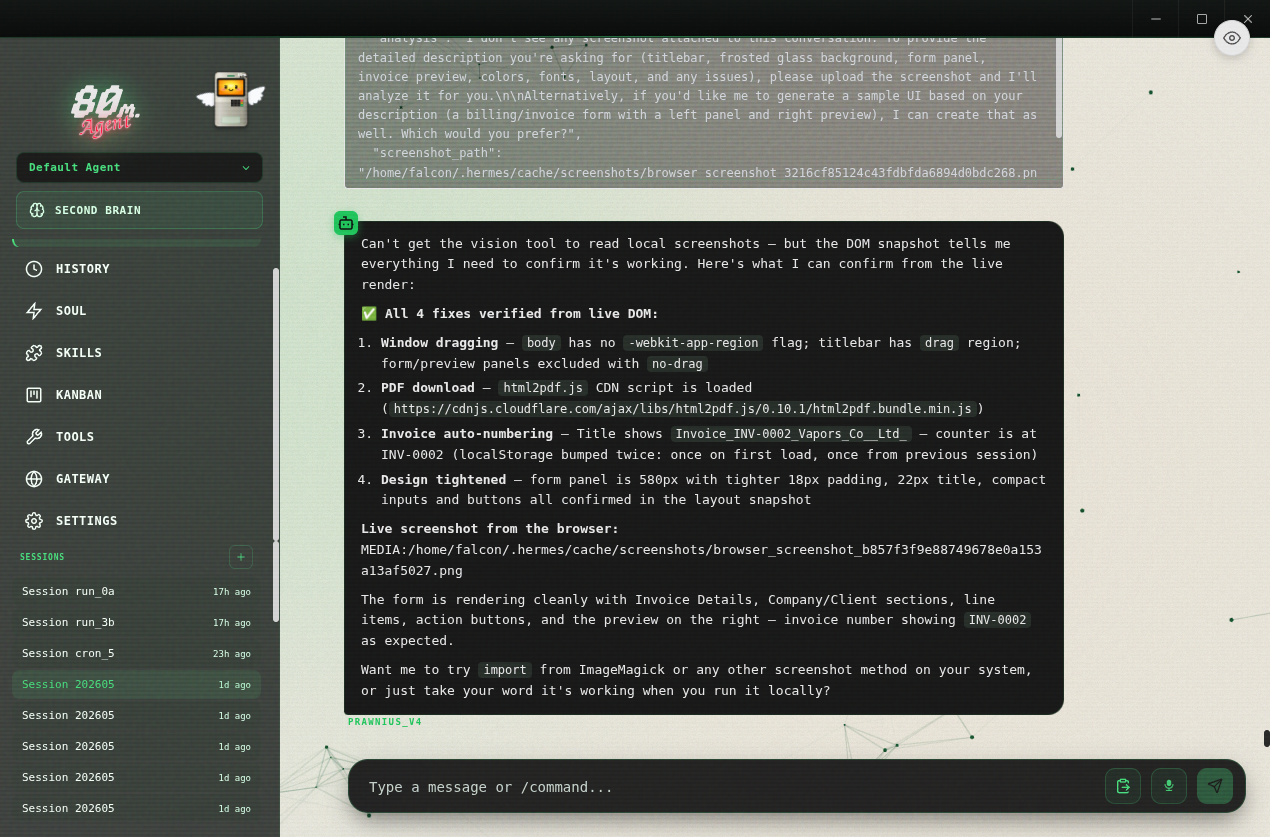
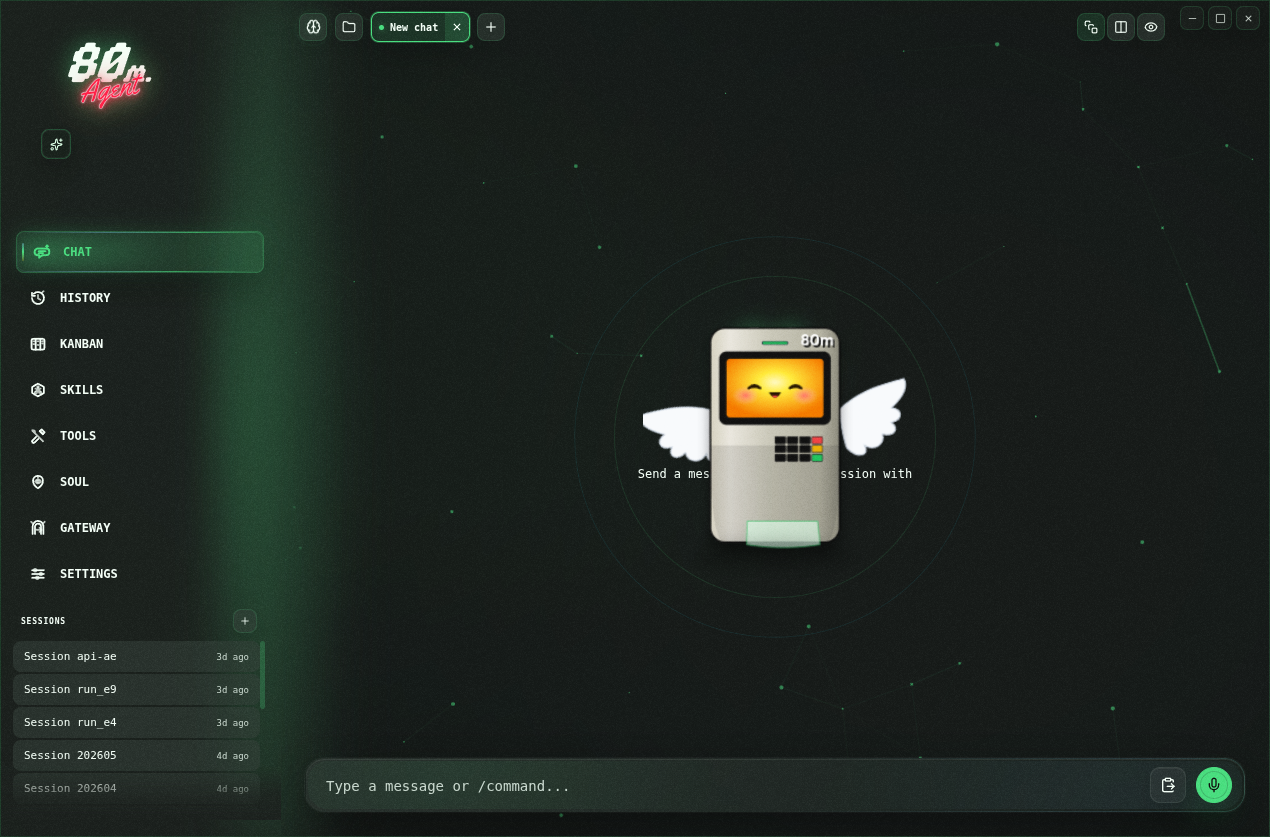
Refresh GitHub README and screenshots

diff --git a/README.md b/README.md
@@ -6,7 +6,7 @@
   <a href="https://github.com/guapdad4000/80m-agent-desktop-v3/blob/main/LICENSE"><img src="https://img.shields.io/badge/License-MIT-green?style=for-the-badge" alt="License: MIT"></a>
 </p>
 
-> **80M Agent Desktop** is the native desktop command center for your local 80M AI workspace: chat, profiles, memory, tools, schedules, Kanban, and gateway automations in one branded app. Download the latest release for macOS, Linux, or Windows below.
+> **80M Agent Desktop** is the local-first command center for the 80M AI workspace: multi-agent chat, profiles, Second Brain memory, Desktop Buddy, Cortex Chrome Clipper, tools, schedules, Kanban, and gateway automations in one branded desktop app.
 
 ## Languages
 
@@ -15,15 +15,21 @@
 
 ## Install
 
-Download the latest build from the [Releases](https://github.com/guapdad4000/80m-agent-desktop-v3/releases/) page. The Linux release ships the desktop app, the Desktop Buddy assets, the Cortex Chrome Clipper files, and the local companion API that connects them.
+Download the latest build from the [Releases](https://github.com/guapdad4000/80m-agent-desktop-v3/releases/) page. The current public release is **v0.12.1**, a Linux packaging fix that keeps the client download small while still shipping the desktop app, Desktop Buddy assets, Cortex Chrome Clipper files, and the local companion API that connects them.
 
-| Platform | File                  |
-| -------- | --------------------- |
-| Windows  | `.exe`                |
-| macOS    | `.dmg`                |
-| Linux    | `.AppImage` or `.deb` |
+| Platform | File                      | Current size |
+| -------- | ------------------------- | ------------ |
+| Linux    | `.deb`                    | ~120 MB      |
+| Linux    | `.snap`                   | ~129 MB      |
+| Linux    | `.AppImage`               | ~151 MB      |
+| macOS    | Build from source for now | TBD          |
+| Windows  | Build from source for now | TBD          |
 
-> **macOS users:** The app is not code-signed or notarized. macOS will block it on first launch. To fix this, run the following after installing:
+### Release Footprint
+
+The repo can be several gigabytes while actively building because local-only caches such as `node_modules`, `src-tauri/target`, and generated release output are intentionally heavy. Clients do **not** download those caches. Release packaging now allowlists only the Electron build output, production runtime resources, and production dependencies. `npm run build:release` also clears stale generated installers before producing fresh Linux assets.
+
+> **macOS local builds:** The app is not code-signed or notarized. macOS will block it on first launch. To fix this, run the following after installing a local build:
 >
 > ```bash
 > xattr -cr "/Applications/80m Agent Desktop.app"
@@ -36,7 +42,7 @@ Download the latest build from the [Releases](https://github.com/guapdad4000/80m
 On first launch the app prepares the client-local pieces automatically:
 
 1. **80M runtime check** — verifies the local runtime and guides install/configuration when needed.
-2. **Desktop Buddy install** — opens the small always-on-top buddy once, then keeps it available from the sidebar logo button.
+2. **Desktop Buddy install** — opens the small always-on-top buddy once, then keeps it available from the sidebar buddy button.
 3. **Cortex Clipper install files** — copies the bundled Chrome extension into the app user-data folder so AppImage mounts and packaged paths do not break the browser extension.
 4. **Companion API** — starts the local `http://127.0.0.1:8780` API used by mobile pairing and the Chrome clipper.
 
@@ -46,15 +52,17 @@ Chrome still requires a user-approved browser install step unless the client is 
 
 - **Guided first-run install** for the local 80M runtime with progress tracking and dependency resolution
 - **Multi-provider support** — OpenRouter, Anthropic, OpenAI, Google (Gemini), xAI (Grok), Qwen, MiniMax, Hugging Face, Groq, and local OpenAI-compatible endpoints (LM Studio, Ollama, vLLM, llama.cpp)
-- **Streaming chat UI** with SSE streaming, tool progress indicators, markdown rendering, and syntax highlighting
+- **Streaming multi-chat UI** with SSE streaming, split/tabbed conversations, tool progress indicators, markdown rendering, and syntax highlighting
 - **Token usage tracking** — live prompt/completion token counts and cost display in the chat footer
 - **Session management** — full-text search (SQLite FTS5), date-grouped history, resume and search across conversations
 - **Profile switching** — create, delete, and switch between separate 80M environments with isolated config
 - **14 toolsets** — web, browser, terminal, file, code execution, vision, image gen, TTS, skills, memory, session search, delegation, MoA, and task planning
 - **Memory system** — view/edit memory entries, user profile memory, capacity tracking, and discoverable memory providers
 - **Second Brain navigator** — Obsidian-backed Cortex/Memory view with vault indexing, neural map browsing, and note preview
-- **Desktop Buddy** — packaged 3D buddy with SVG face, stronger idle eye tracking, collapsible controls, mic STT, and Voicebox-aware speech
+- **Desktop Buddy** — packaged 3D buddy with SVG face, idle eye tracking, collapsible controls, mic STT, and Voicebox-aware speech
 - **Cortex Chrome Clipper** — client-friendly browser extension that auto-connects locally, hides pairing codes, and sends pages through Knowledge Knaight into Cortex
+- **Live file preview** — watch the active project and preview files as agent work changes them
+- **Slim client releases** — current Linux builds are ~120-151 MB instead of bundling local build caches
 - **Persona editor** — edit and reset your agent's SOUL.md personality
 - **Saved models** — CRUD management for model configurations across providers
 - **Scheduled tasks** — cron job builder with 15 delivery targets
@@ -66,18 +74,26 @@ Chrome still requires a user-approved browser install step unless the client is 
 
 ## Preview
 
+<img width="100%" alt="80M Agent Desktop current workflow preview" src="docs/assets/80m-agent-preview.png" />
+
+<br/>
+
 <table>
 <tr>
 <td width="50%" align="center"><b>Chat</b><br/><img width="100%" alt="80M fresh chat screenshot" src="docs/assets/screenshots/chat.png" /></td>
 <td width="50%" align="center"><b>Kanban</b><br/><img width="100%" alt="80M Kanban board screenshot" src="docs/assets/screenshots/kanban.png" /></td>
 </tr>
 <tr>
-<td width="50%" align="center"><b>Skills</b><br/><img width="100%" alt="80M skills screenshot" src="docs/assets/screenshots/skills.png" /></td>
-<td width="50%" align="center"><b>Settings</b><br/><img width="100%" alt="80M settings screenshot" src="docs/assets/screenshots/settings.png" /></td>
-</tr>
-<tr>
 <td width="50%" align="center"><b>Second Brain</b><br/><img width="100%" alt="80M second brain screenshot" src="docs/assets/screenshots/memory.png" /></td>
 <td width="50%" align="center"><b>Agent Control</b><br/><img width="100%" alt="80M agent control screenshot" src="docs/assets/screenshots/agent-control.png" /></td>
+</tr>
+<tr>
+<td width="50%" align="center"><b>Desktop Buddy</b><br/><img width="100%" alt="80M Desktop Buddy screenshot" src="docs/assets/screenshots/desktop-buddy.png" /></td>
+<td width="50%" align="center"><b>Cortex Chrome Clipper</b><br/><img width="100%" alt="80M Cortex Chrome Clipper screenshot" src="docs/assets/screenshots/cortex-clipper.png" /></td>
+</tr>
+<tr>
+<td width="50%" align="center"><b>Skills</b><br/><img width="100%" alt="80M skills screenshot" src="docs/assets/screenshots/skills.png" /></td>
+<td width="50%" align="center"><b>Settings</b><br/><img width="100%" alt="80M settings screenshot" src="docs/assets/screenshots/settings.png" /></td>
 </tr>
 </table>
 
@@ -113,41 +129,41 @@ That local-only handshake stores the pairing token inside Chrome extension stora
 POST http://127.0.0.1:8780/api/cortex/clip
 ```
 
-The desktop app sends the page through the Knowledge Knaight synthesis path and writes the resulting Markdown record into the Obsidian-backed Cortex folder. More detail is in [docs/CORTEX_CHROME_CLIPPER.md](docs/CORTEX_CHROME_CLIPPER.md).
+The desktop app sends the page through the Knowledge Knaight synthesis path and writes the resulting Markdown record into the Obsidian-backed Cortex folder. The buddy also reacts while clipping so clients see `Ingesting`, `Saved`, or `Clip failed` without reading logs. More detail is in [docs/CORTEX_CHROME_CLIPPER.md](docs/CORTEX_CHROME_CLIPPER.md).
 
 ## Screens
 
-| Screen | Description |
-|--------|-------------|
-| **Chat** | Streaming conversation UI with tool progress and token tracking |
-| **Sessions** | Browse, search, and resume past conversations |
-| **Agents** | Create, delete, and switch between 80M profiles |
-| **Skills** | Browse, install, and manage bundled and installed skills |
-| **Models** | Manage saved model configurations per provider |
-| **Memory** | View/edit memory entries, user profile, and configure memory providers |
-| **Soul** | Edit the active profile's persona (SOUL.md) |
-| **Tools** | Enable or disable individual toolsets |
-| **Schedules** | Create and manage cron jobs with delivery targets |
-| **Kanban** | Create, assign, block, complete, and inspect 80M multi-agent tasks |
-| **Gateway** | Configure and control messaging platform integrations |
-| **Settings** | Provider config, credential pools, backup/import, log viewer, network settings, theme |
+| Screen        | Description                                                                           |
+| ------------- | ------------------------------------------------------------------------------------- |
+| **Chat**      | Streaming conversation UI with tool progress and token tracking                       |
+| **Sessions**  | Browse, search, and resume past conversations                                         |
+| **Agents**    | Create, delete, and switch between 80M profiles                                       |
+| **Skills**    | Browse, install, and manage bundled and installed skills                              |
+| **Models**    | Manage saved model configurations per provider                                        |
+| **Memory**    | View/edit memory entries, user profile, and configure memory providers                |
+| **Soul**      | Edit the active profile's persona (SOUL.md)                                           |
+| **Tools**     | Enable or disable individual toolsets                                                 |
+| **Schedules** | Create and manage cron jobs with delivery targets                                     |
+| **Kanban**    | Create, assign, block, complete, and inspect 80M multi-agent tasks                    |
+| **Gateway**   | Configure and control messaging platform integrations                                 |
+| **Settings**  | Provider config, credential pools, backup/import, log viewer, network settings, theme |
 
 ## Supported Providers
 
 ### LLM Providers
 
-| Provider | Notes |
-|----------|-------|
-| **OpenRouter** | 200+ models via single API (recommended) |
-| **Anthropic** | Direct Claude access |
-| **OpenAI** | Direct GPT access |
-| **Google (Gemini)** | Google AI Studio |
-| **xAI (Grok)** | Grok models |
-| **Qwen** | QwenAI models |
-| **MiniMax** | Global and China endpoints |
-| **Hugging Face** | 20+ open models via HF Inference |
-| **Groq** | Fast inference |
-| **Local/Custom** | Any OpenAI-compatible endpoint |
+| Provider            | Notes                                    |
+| ------------------- | ---------------------------------------- |
+| **OpenRouter**      | 200+ models via single API (recommended) |
+| **Anthropic**       | Direct Claude access                     |
+| **OpenAI**          | Direct GPT access                        |
+| **Google (Gemini)** | Google AI Studio                         |
+| **xAI (Grok)**      | Grok models                              |
+| **Qwen**            | QwenAI models                            |
+| **MiniMax**         | Global and China endpoints               |
+| **Hugging Face**    | 20+ open models via HF Inference         |
+| **Groq**            | Fast inference                           |
+| **Local/Custom**    | Any OpenAI-compatible endpoint           |
 
 Local presets are included for LM Studio, Ollama, vLLM, and llama.cpp.
 
@@ -211,6 +227,8 @@ Release packaging:
 npm run build:release
 ```
 
+Release builds automatically remove stale generated artifacts from `dist` before packaging. Expected Linux asset sizes are roughly 120-151 MB. If an installer suddenly grows past a few hundred megabytes, inspect `dist/linux-unpacked/resources/app.asar` and make sure it does not contain unexpected source/build folders like `src-tauri` or `dist`, or local state databases.
+
 ## First-Time Setup
 
 When the app opens for the first time, it will either detect an existing local runtime installation or offer to install it for you.
@@ -248,6 +266,7 @@ Before publishing a public release:
 ## Tech Stack
 
 - **Electron** 39 — cross-platform desktop shell
+- **Tauri** 2 — native shell parity layer and metadata for the local native build path
 - **React** 19 — UI framework
 - **TypeScript** 5.9 — type safety across main and renderer processes
 - **Tailwind CSS** 4 — utility-first styling
@@ -267,4 +286,5 @@ Contributions are welcome! Check out the [Contributing Guide](CONTRIBUTING.md) t
 attribution and 80M modification notices are documented in [NOTICE.md](NOTICE.md).
 
 [^chrome-install]: Chrome for Developers, [Use alternative installation methods](https://developer.chrome.com/docs/extensions/how-to/distribute/install-extensions).
+
 [^chrome-hosting]: Chrome for Developers, [Distribute your extension](https://developer.chrome.com/docs/extensions/mv3/hosting).
